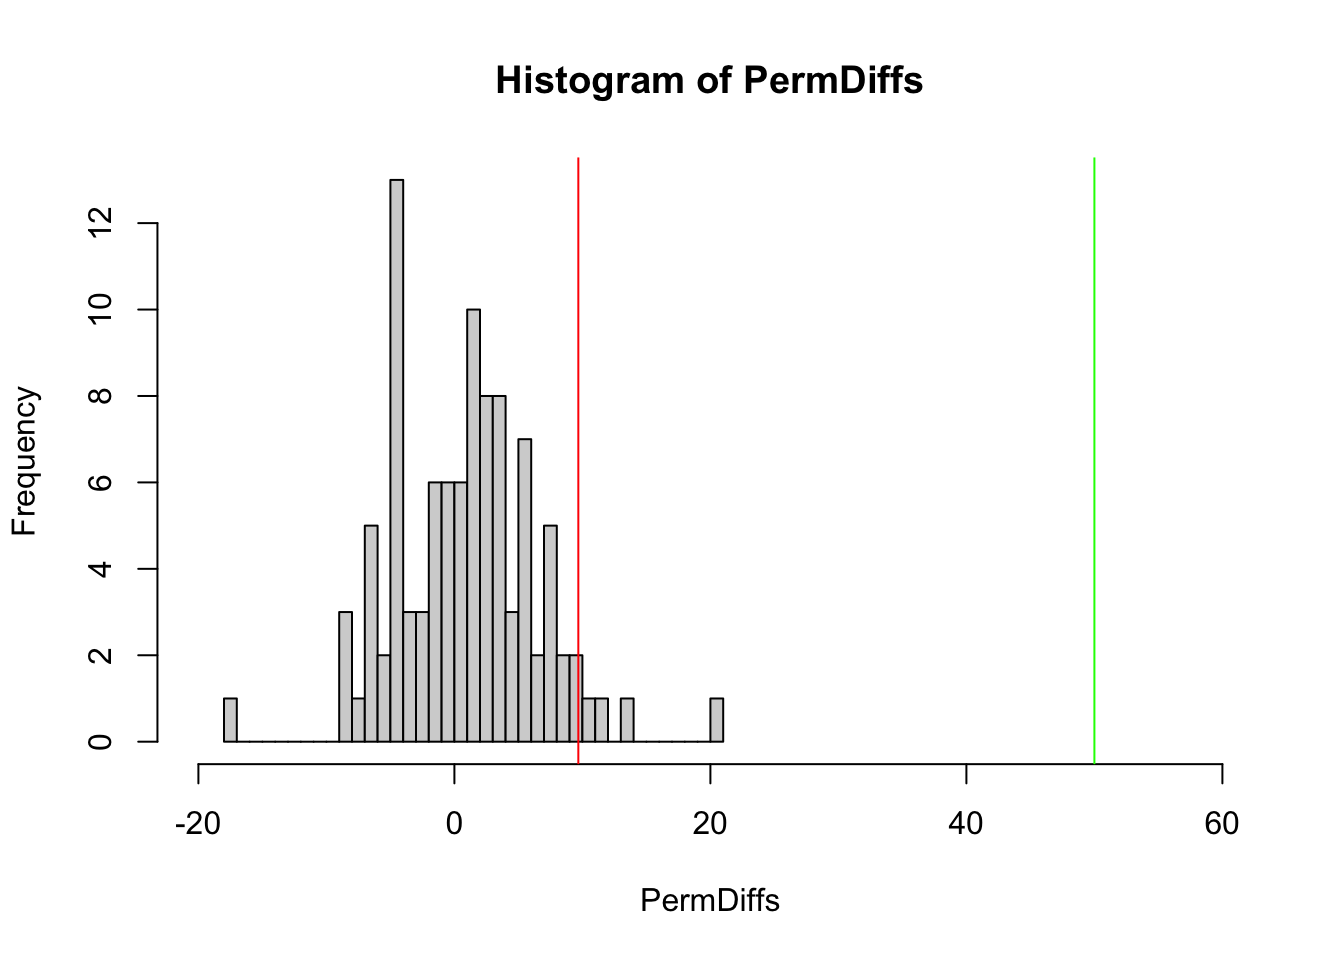
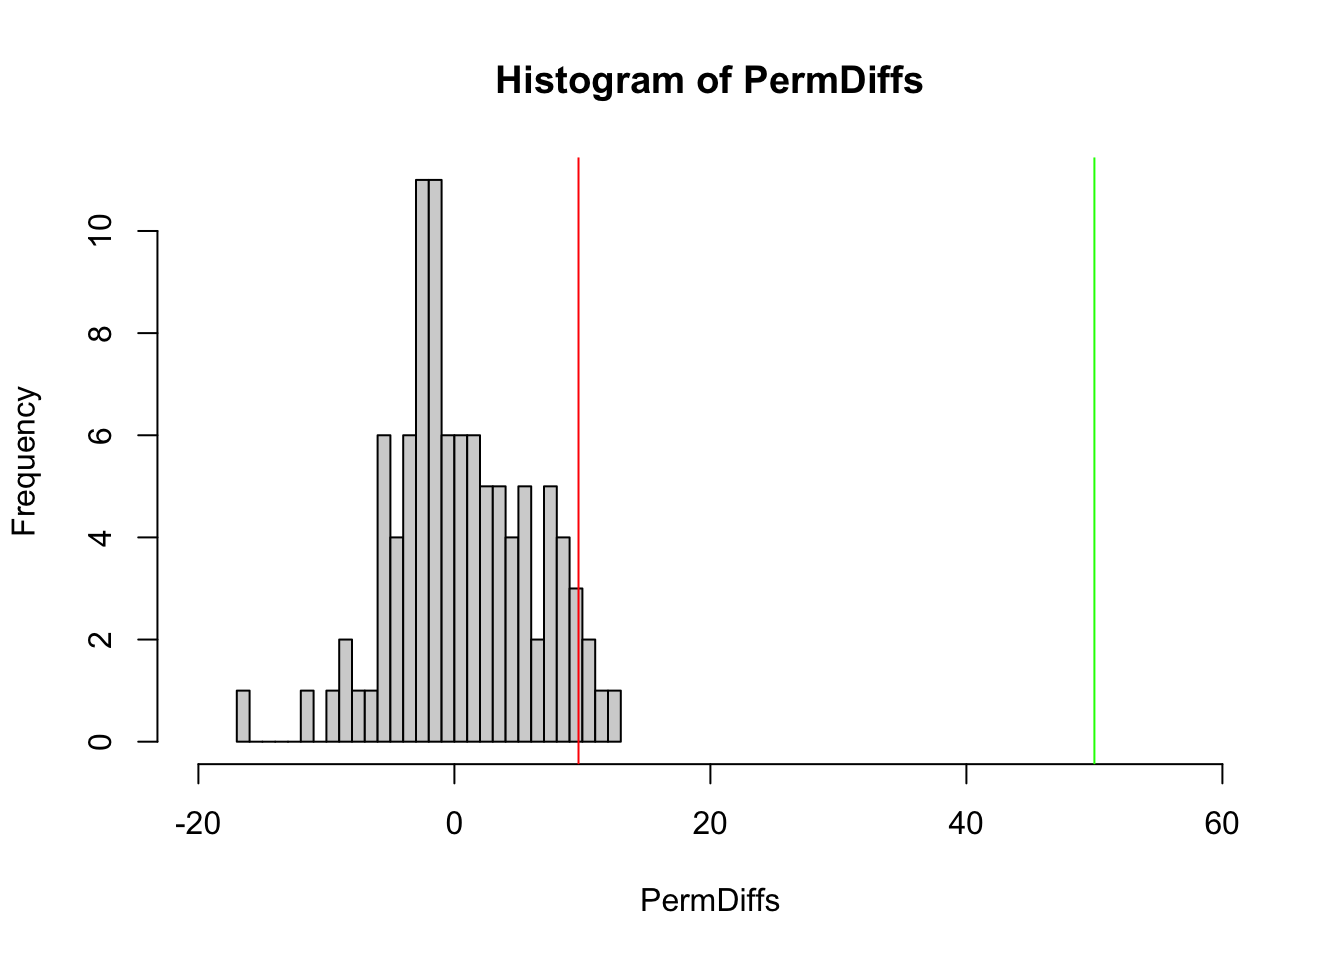
renderöitiin ja siten lisättiin .nojekyll myös docs kansioon

diff --git a/docs/R_komentoja/DatasetinLuominen.html b/docs/R_komentoja/DatasetinLuominen.html
@@ -2264,9 +2264,9 @@ globalThis.qwebrCreateMonacoEditorInstance = function (cellData) {
 <span id="cb3-5"><a href="#cb3-5" aria-hidden="true" tabindex="-1"></a></span>
 <span id="cb3-6"><a href="#cb3-6" aria-hidden="true" tabindex="-1"></a><span class="fu">aggregate</span>(arvo <span class="sc">~</span> ryhmä, <span class="at">data =</span> data, <span class="at">FUN =</span> mean)</span></code></pre></div><button title="Copy to Clipboard" class="code-copy-button"><i class="bi"></i></button></div>
 <div class="cell-output cell-output-stdout">
-<pre><code>  ryhmä      arvo
-1     1 0.9808903
-2     2 2.9743991</code></pre>
+<pre><code>  ryhmä     arvo
+1     1 1.005265
+2     2 2.985003</code></pre>
 </div>
 </div>
 <ul>
@@ -2318,8 +2318,8 @@ globalThis.qwebrCreateMonacoEditorInstance = function (cellData) {
 <div class="cell">
 <div class="code-copy-outer-scaffold"><div class="sourceCode cell-code" id="cb9"><pre class="sourceCode r code-with-copy"><code class="sourceCode r"><span id="cb9-1"><a href="#cb9-1" aria-hidden="true" tabindex="-1"></a><span class="fu">rnorm</span>(<span class="dv">10</span>, <span class="dv">6</span>, <span class="dv">2</span>) </span></code></pre></div><button title="Copy to Clipboard" class="code-copy-button"><i class="bi"></i></button></div>
 <div class="cell-output cell-output-stdout">
-<pre><code> [1] 7.532624 5.990170 3.461637 4.653610 4.229818 8.089481 6.232760 5.328921
- [9] 5.257930 6.256375</code></pre>
+<pre><code> [1] 6.290762 7.641074 6.146621 3.298738 8.353707 4.157428 6.801021 7.288050
+ [9] 5.884233 6.459264</code></pre>
 </div>
 </div>
 <p>Tarkistetaan, että keskiarvo ja keskihajonta pitävät paikkansa.</p>
@@ -2339,8 +2339,8 @@ globalThis.qwebrCreateMonacoEditorInstance = function (cellData) {
 <span id="cb11-13"><a href="#cb11-13" aria-hidden="true" tabindex="-1"></a><span class="fu">data.frame</span>(<span class="at">N10 =</span> <span class="fu">c</span>(m1,sd1), <span class="at">N100 =</span> <span class="fu">c</span>(m2,sd2), <span class="at">N1000 =</span> <span class="fu">c</span>(m3, sd3), <span class="at">row.names =</span> RivNimet)</span></code></pre></div><button title="Copy to Clipboard" class="code-copy-button"><i class="bi"></i></button></div>
 <div class="cell-output cell-output-stdout">
 <pre><code>                  N10     N100    N1000
-Keskiarvo    6.722679 6.148802 5.944560
-Keskihajonta 1.879397 2.001625 1.979251</code></pre>
+Keskiarvo    7.004898 5.981270 6.076430
+Keskihajonta 1.550506 1.891508 1.967597</code></pre>
 </div>
 </div>
 <p>Isommalla n:llä näyttäisi osuvan vielä tarkemmin kohdalleen.</p>

diff --git a/docs/R_kurssi/Osa03.html b/docs/R_kurssi/Osa03.html
@@ -599,16 +599,16 @@ div.csl-indent {
 <span id="cb17-4"><a href="#cb17-4" aria-hidden="true" tabindex="-1"></a></span>
 <span id="cb17-5"><a href="#cb17-5" aria-hidden="true" tabindex="-1"></a><span class="fu">sort</span>(PermDiffs)</span></code></pre></div><button title="Copy to Clipboard" class="code-copy-button"><i class="bi"></i></button></div>
 <div class="cell-output cell-output-stdout">
-<pre><code>  [1] -17.64  -8.48  -8.40  -8.40  -7.32  -6.92  -6.92  -6.88  -6.52  -6.28
- [11]  -5.64  -5.36  -4.92  -4.72  -4.72  -4.56  -4.48  -4.44  -4.40  -4.36
- [21]  -4.32  -4.24  -4.20  -4.20  -4.12  -3.80  -3.76  -3.56  -2.84  -2.28
- [31]  -2.08  -1.80  -1.56  -1.44  -1.32  -1.24  -1.20  -0.76  -0.76  -0.68
- [41]  -0.12  -0.08  -0.04   0.08   0.40   0.44   0.52   0.68   0.88   1.04
- [51]   1.20   1.32   1.40   1.44   1.48   1.60   1.64   1.84   1.96   2.24
- [61]   2.28   2.28   2.60   2.64   2.88   2.96   2.96   3.08   3.40   3.44
- [71]   3.56   3.76   3.76   3.84   3.92   4.16   4.60   4.68   5.08   5.24
- [81]   5.56   5.56   5.64   5.80   5.96   6.24   6.68   7.12   7.28   7.48
- [91]   7.76   7.96   8.32   8.88   9.68   9.72  10.40  11.84  13.52  20.04</code></pre>
+<pre><code>  [1] -16.04 -11.96  -9.12  -8.36  -8.12  -7.44  -6.64  -5.92  -5.72  -5.36
+ [11]  -5.32  -5.24  -5.04  -4.92  -4.76  -4.20  -4.08  -3.92  -3.72  -3.72
+ [21]  -3.52  -3.48  -3.44  -2.96  -2.80  -2.80  -2.64  -2.64  -2.56  -2.52
+ [31]  -2.44  -2.40  -2.28  -2.24  -1.96  -1.92  -1.80  -1.76  -1.68  -1.60
+ [41]  -1.32  -1.32  -1.28  -1.20  -1.04  -0.68  -0.56  -0.48  -0.24  -0.24
+ [51]  -0.16   0.04   0.16   0.32   0.36   0.44   0.68   1.16   1.20   1.36
+ [61]   1.60   1.68   2.00   2.12   2.20   2.28   2.32   2.36   3.52   3.64
+ [71]   3.76   3.84   3.84   4.32   4.44   4.72   4.72   5.28   5.48   5.80
+ [81]   5.88   5.88   7.00   7.00   7.12   7.48   7.48   7.60   7.72   8.28
+ [91]   8.36   8.44   8.52   9.64   9.68  10.00  10.32  10.84  11.12  12.88</code></pre>
 </div>
 <div class="code-copy-outer-scaffold"><div class="sourceCode cell-code" id="cb19"><pre class="sourceCode r code-with-copy"><code class="sourceCode r"><span id="cb19-1"><a href="#cb19-1" aria-hidden="true" tabindex="-1"></a><span class="co"># tässä tapauksessa kaikki permutaatioiden keskiarvoerot jäävät todellisen keskiarvoeron alle eli sen </span></span>
 <span id="cb19-2"><a href="#cb19-2" aria-hidden="true" tabindex="-1"></a>  <span class="co"># mukaan ero on hyvinkin merkitsevä </span></span>

diff --git a/docs/R_kurssi/Osa02.html b/docs/R_kurssi/Osa02.html
@@ -382,19 +382,19 @@ pre > code.sourceCode > span > a:first-child::before { text-decoration: underlin
 <span id="cb1-7"><a href="#cb1-7" aria-hidden="true" tabindex="-1"></a><span class="fu">aggregate</span>(Age <span class="sc">~</span> Group, <span class="at">data =</span> data, <span class="at">FUN =</span> mean)</span></code></pre></div><button title="Copy to Clipboard" class="code-copy-button"><i class="bi"></i></button></div>
 <div class="cell-output cell-output-stdout">
 <pre><code>   Group   Age
-1 GroupA 40.29
-2 GroupB 38.65
-3 GroupC 42.53</code></pre>
+1 GroupA 42.67
+2 GroupB 41.79
+3 GroupC 41.44</code></pre>
 </div>
 <div class="code-copy-outer-scaffold"><div class="sourceCode cell-code" id="cb3"><pre class="sourceCode r code-with-copy"><code class="sourceCode r"><span id="cb3-1"><a href="#cb3-1" aria-hidden="true" tabindex="-1"></a><span class="fu">quantile</span>(data<span class="sc">$</span>WM, <span class="at">probs =</span> <span class="fu">seq</span>(<span class="dv">0</span>, <span class="dv">1</span>, <span class="fl">0.9</span>))</span></code></pre></div><button title="Copy to Clipboard" class="code-copy-button"><i class="bi"></i></button></div>
 <div class="cell-output cell-output-stdout">
-<pre><code>  0%  90% 
- 1.0 91.1 </code></pre>
+<pre><code> 0% 90% 
+  1  92 </code></pre>
 </div>
 <div class="code-copy-outer-scaffold"><div class="sourceCode cell-code" id="cb5"><pre class="sourceCode r code-with-copy"><code class="sourceCode r"><span id="cb5-1"><a href="#cb5-1" aria-hidden="true" tabindex="-1"></a><span class="fu">apply</span>(data[,<span class="dv">2</span><span class="sc">:</span><span class="dv">3</span>], <span class="dv">2</span>, mean) </span></code></pre></div><button title="Copy to Clipboard" class="code-copy-button"><i class="bi"></i></button></div>
 <div class="cell-output cell-output-stdout">
-<pre><code>  Age    WM 
-40.49 51.26 </code></pre>
+<pre><code>     Age       WM 
+41.96667 49.53000 </code></pre>
 </div>
 </div>
 <p>Aggregate funktiossa ensiksi valitaan numeerinen freimi datasetistä, josta keskiarvo (tai jokin muu) lasketaan, sitten ~ merkin jälkeen # ryhmittelevä tekijä, eli se minkä mukaan data jaotellaan. # data = kohtaan datasetti, # FUN = kohtaan käytettävä funktio, jota käytetään.</p>

diff --git a/docs/R_komentoja/Tilastotesteja.html b/docs/R_komentoja/Tilastotesteja.html
@@ -396,13 +396,13 @@ div.csl-indent {
     Welch Two Sample t-test
 
 data:  R1 and R2
-t = -5.5288, df = 97.811, p-value = 2.681e-07
+t = -4.6515, df = 95.574, p-value = 1.058e-05
 alternative hypothesis: true difference in means is not equal to 0
 95 percent confidence interval:
- -1.5627229 -0.7371906
+ -1.2339499 -0.4957619
 sample estimates:
  mean of x  mean of y 
--0.1231248  1.0268320 </code></pre>
+0.01061623 0.87547211 </code></pre>
 </div>
 </div>
 <p>Mitä tietoja testi näyttää</p>
@@ -431,13 +431,13 @@ sample estimates:
     Welch Two Sample t-test
 
 data:  arvo by ryhmä
-t = -4.1834, df = 97.951, p-value = 6.264e-05
+t = -5.7096, df = 97.973, p-value = 1.212e-07
 alternative hypothesis: true difference in means between group 1 and group 2 is not equal to 0
 95 percent confidence interval:
- -1.3046894 -0.4651413
+ -1.4296323 -0.6921643
 sample estimates:
 mean in group 1 mean in group 2 
-   -0.004075404     0.880839967 </code></pre>
+      0.1979399       1.2588382 </code></pre>
 </div>
 </div>
 </section>
